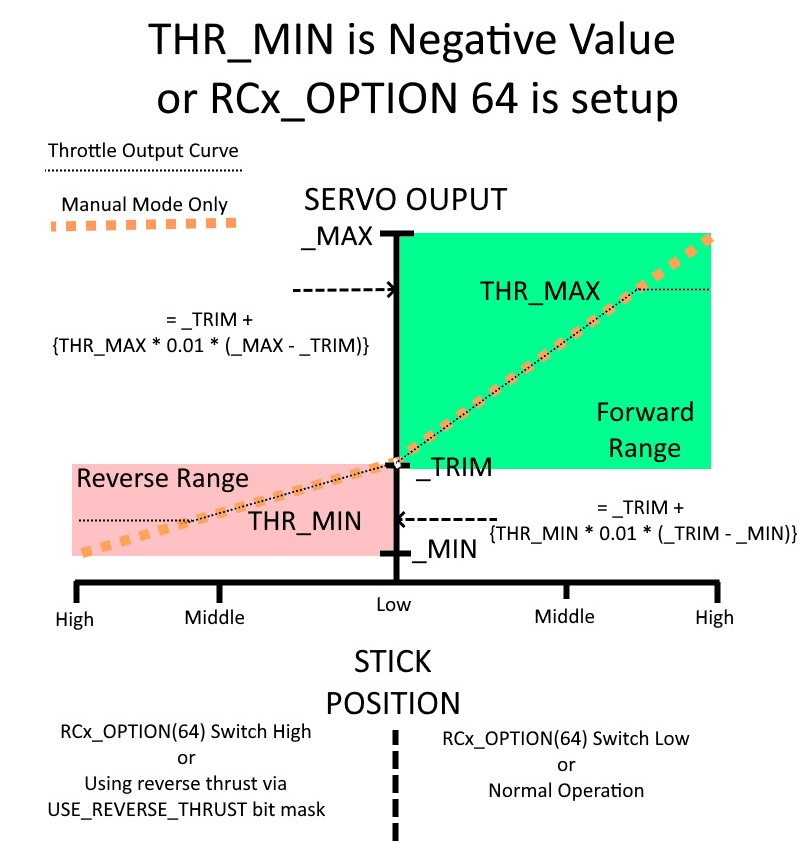
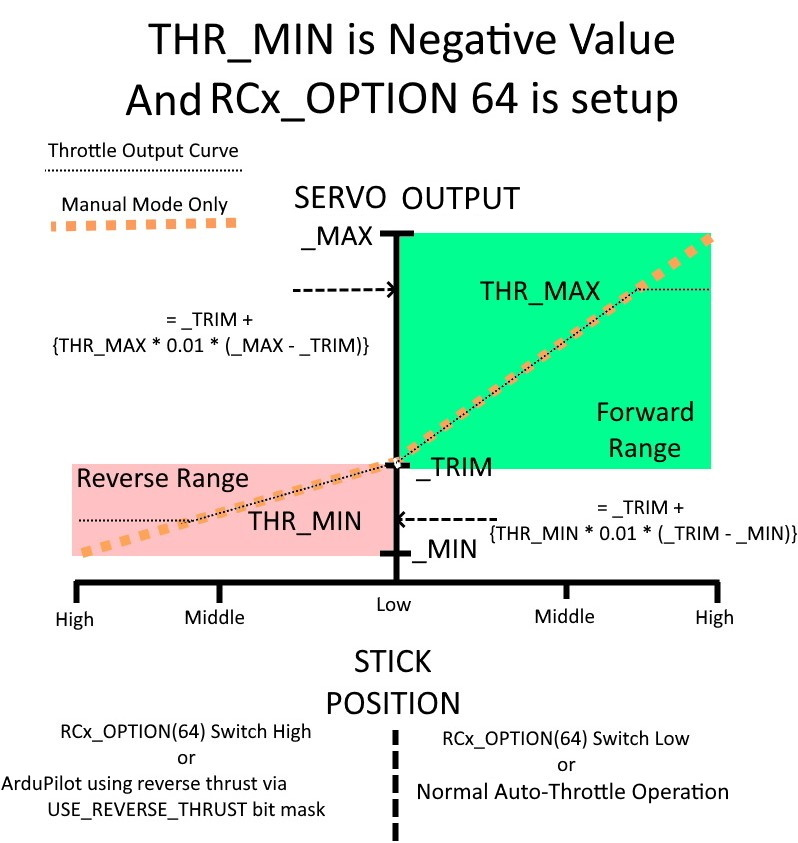
Add reverse thrust setup page

diff --git a/plane/source/docs/reverse-thrust-setup.rst b/plane/source/docs/reverse-thrust-setup.rst
@@ -1,0 +1,74 @@
+.. _reverse-thrust-setup:
+
+
+====================
+Reverse Thrust Setup
+====================
+
+Reverse thrust can be used in Plane for any auto-throttle mode and in automatic landings, and/or under pilot control to provide steeper descents without gaining airspeed.
+
+In order to use reverse thrust, the ESC must be capable of it. If so, usually the ESC input to output will be symmetric with equal forward and reverse output. For example, the center point 1500us would be idle/stopped, instead of half throttle as on a non-reversing ESC.
+
+For the rest of this document, the typical setup of having RC channel 3 control the throttle, and the motor esc being on output 3, for the examples. For multiple motors, the parameters would be used for those output numbers also.
+
+Setup
+=====
+
+.. warning:: never arm and work on motor settings with propellers attached!
+
+
+First, the :ref:`SERVO3_MAX<SERVO3_MAX>`, :ref:`SERVO3_MIN<SERVO3_MIN>`, and :ref:`SERVO3_TRIM<SERVO3_TRIM>` must be set appropriately for the output attached to the ESC. Usually, the :ref:`SERVO3_TRIM<SERVO3_TRIM>` value will set the zero output point (usually 1500uS), while the :ref:`SERVO3_MAX<SERVO3_MAX>` sets the maximum forward point, and :ref:`SERVO3_MIN<SERVO3_MIN>` sets the maximum reverse thrust point.
+
+In order for reverse thrust to be active (outputting values to the ESC between trim and min values), the value for :ref:`THR_MIN<THR_MIN>` must be negative, as shown below.
+
+Next, how it will be controlled must be decided. The options are:
+
+1. Pilot control with the throttle stick. Above the zero thrust (idle) stick position will control forward thrust, while below will be reverse thrust. Within the deadzone (:ref:`RC3_DZ<RC3_DZ>`), is the zero thrust position. This allows pilot control on approaches or descents in non-auto-throttle modes (MANUAL, FBWA, etc.)
+
+2. Automatic control by ArduPilot in auto-throttle modes (AUTO,CRUISE,FBWB,etc.) for increased descents without airspeed increases, especially during automatic landings to control flare and pre-flare airspeeds more accurately with steeper glide-slopes.
+
+3. Both of the above.
+
+Reverse Thrust: Pilot Controlled
+--------------------------------
+
+First, its important to understand how non-reverse throttle's input to throttle servo output functions, when :ref:`THR_MIN<THR_MIN>` is zero or a positive value and the RC option for a reversing switch (RCx_OPTION = 64) is not setup (the usual case for most planes).
+
+
+.. figure:: ../../../images/thr-min-positive.jpg
+    :width: 450px
+
+    Normal Throttle Setup
+
+The throttle stick positions of low and high correspond to the calibrated values for :ref:`RC3_MIN<RC3_MIN>` and :ref:`RC3_MAX<RC3_MAX>`, respectively. When armed, these positions produce the minimum and maximum output values setup for SERVO3 and correspond to zero output and full thrust output when the ESC has been calibrated. Note that the :ref:`RC3_TRIM<RC3_TRIM>` value is not used in this case. 
+
+The :ref:`THR_MAX<THR_MAX>` and :ref:`THR_MIN<THR_MIN>` values constrain the output values in non-Manual modes. A non-zero, positive value for :ref:`THR_MIN<THR_MIN>` might be used to keep an internal combustion engine running at low stick, but allow its cutoff in MANUAL mode. Note that these parameters are percentages of the output range.
+
+In order to obtain reverse thrust using the pilot's throttle stick, the servo output will be setup for a reversing ESC with the maximum, trim, and minimum output values of SERVO3 setup as shown below. :ref:`THR_MIN<THR_MIN>` must be set to a negative value and will constrain the maximum reverse thrust at low stick in modes other than MANUAL to a percentage of the reverse output range. Likewise, :ref:`THR_MAX<THR_MAX>` will set the maximum positive thrust percentage in modes other than MANUAL.
+
+The :ref:`RC3_TRIM<RC3_TRIM>` and its deadzone, :ref:`RC3_DZ<RC3_DZ>`, will determine the stick position range where no thrust is produced , ie :ref:`SERVO3_TRIM<SERVO3_TRIM>`.
+
+.. figure:: ../../../images/thr-min-negative-noswitch.jpg
+    :width: 450px
+
+    Throttle Stick controls forward and reverse thrust
+
+This can be a bit awkward to use, since placement of the throttle stick in the trim deadzone to stop the motor producing thrust can be difficult. Therefore, using an RC switch option to use reverse thrust control can make this much easier, as shown below. In this case the RC channel's ``RCxOPTION`` has been set to 64. When high, this changes the throttle stick to control reverse thrust instead of forward thrust. Note, that the low stick position (and its deadzone above it) produce zero thrust in both cases and that :ref:`RC3_TRIM<RC3_TRIM>`, again is irrelevant.
+
+.. figure:: ../../../images/thr-min-negative.jpg
+    :width: 450px
+
+    Using the RC Option for changing throttle stick to control either forward or reverse thrust
+
+Reverse Thrust: AutoPilot Controlled
+------------------------------------
+
+Reverse thrust can also be used by the autopilot to steepen descents without overspeeding automatically, in automatic throttle controlled modes, including during automatic landings, by setting the :ref:`USE_REV_THRUST<USE_REV_THRUST>` parameter, as shown in the above diagrams.
+
+In order to actually use this,an airspeed sensor must be in use, and the :ref:`TECS_SINK_MAX<TECS_SINK_MAX>` must be set such that :ref:`TECS_PITCH_MIN<TECS_PITCH_MIN>` and :ref:`ARSPD_FBW_MAX<ARSPD_FBW_MAX>` would be exceeded otherwise. The autopilot will use reverse thrust up to :ref:`THR_MIN<THR_MIN>` in order to obtain that maximum sink rate when required by the autopilot. Typical configurations also have :ref:`TECS_APPR_SMAX<TECS_APPR_SMAX>` set higher than :ref:`TECS_SINK_MAX<TECS_SINK_MAX>` for smoother cruising ,while allowing steeper and more aggressive slopes for landing.
+
+Use with pilot controlled forward thrust only
++++++++++++++++++++++++++++++++++++++++++++++
+
+The autopilot controlled reverse thrust discussed above can be used without needing to have the throttle stick evoke any reverse thrust at all. Simply set :ref:`THR_MIN<THR_MIN>` for the maximum reverse thrust and :ref:`USE_REV_THRUST<USE_REV_THRUST>` as desired, and then set ::ref:`RC3_TRIM<RC3_TRIM>` =  :ref:`RC3_MIN<RC3_MIN>`. Low throttle stick will be zero thrust and above that, will only be forward thrust, however the autopilot can still command reverse thrust as needed.
+

diff --git a/plane/source/docs/automatic-landing.rst b/plane/source/docs/automatic-landing.rst
@@ -364,20 +364,8 @@ Once an abort land has completed, by either reaching the target altitude or swit
 Reverse Thrust Setup
 ====================
 
-Some ESC's allow for reversing motor direction. When using reverse on the propeller it will generate a negative thrust which can be used to reduce your airspeed. During a steep landing approach this method can be used to maintain a stable and low airspeed allowing you to land much more softly and precisely. Reverse thrust can also be automatically used during automatic landings (see below) or during other throttle controlled modes to steepen descents. In which throttle controlled modes it is utilized, is determined by the :ref:`USE_REV_THRUST<USE_REV_THRUST>` bitmask.
-
-Reverse thrust is enabled by either setting the THR_MIN percentage to a negative value, or by setting an RC channels RCx_OPTION to "64".
-
-The impacts of the various throttle parameters as shown below for the normal case and when reverse thrust is enabled.
-
-
-.. image:: ../../../images/thr-min-positive.jpg
-    :width: 450px
-
-----------------------------------------------------------
-
-.. image:: ../../../images/thr-min-negative.jpg
-    :width: 450px
+Some ESC's allow for reversing motor direction. When using reverse on the propeller it will generate a negative thrust which can be used to reduce your airspeed. During a steep landing approach this method can be used to maintain a stable and low airspeed allowing you to land much more softly and precisely. Reverse thrust can also be automatically used during automatic landings (see below) or during other throttle controlled modes to steepen descents. 
+See  :ref:`Reverse Thrust Setup<reverse-thrust-setup>` for details on setting up reverse thrust.
 
 .. warning:: enabling reverse thrust automatically sets the SERVOx_TRIM value to LOW throttle stick for the throttle output servo. SERVOx_TRIM is normally ignored, and low stick is SERVOx_MIN! Arming in this condition with an ESC not properly setup will spin-up the motor, possibly dramatically!
 
@@ -410,7 +398,7 @@ The maximum amount of reverse thrust used in autopilot throttle controlled modes
 
 The :ref:`USE_REV_THRUST <USE_REV_THRUST>` parameter is a bit mask that allows the setting of when reverse thrust can be activated, as when autolanding, or in other throttle controlled modes.
 
-If an RC channel's ``RCx_OPTION`` auxiliary function has been set to "64", then activating the switch will also provide access to the reverse thrust capability in non-throttle controlled modes, as shown in the figures above.
+If an RC channel's ``RCx_OPTION`` auxiliary function has been set to "64", then activating the switch will also provide access to the reverse thrust capability in non-throttle controlled modes, as shown in the :ref:`Reverse Thrust Setup<reverse-thrust-setup>` section.
 
 
 ESC (Electronic Speed Controller)

diff --git a/common/source/docs/common-advanced-configuration.rst b/common/source/docs/common-advanced-configuration.rst
@@ -90,6 +90,9 @@ tuning options for the vehicle.
     Parameter Reset <common-parameter-reset>
     RC Input Channel Mapping (RCMAP) <common-rcmap>
     RC Options <common-rc-options>
+[site wiki="plane"]
+    Reverse Thrust Setup<reverse-thrust-setup>
+[/site]
     RunCam Camera Configuration and Control <common-camera-runcam>
     Sensor Position Offset Compensation <common-sensor-offset-compensation>
     Sensor Testing <common-sensor-testing>
